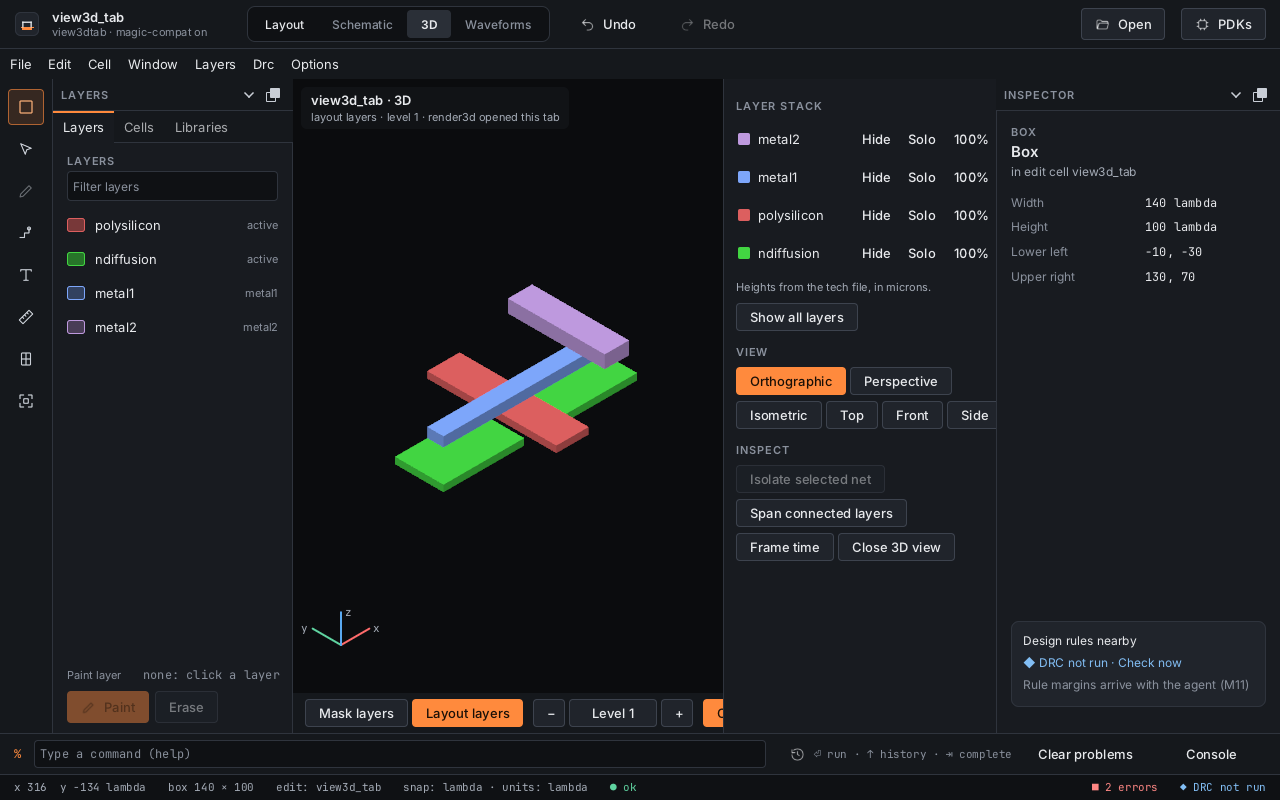
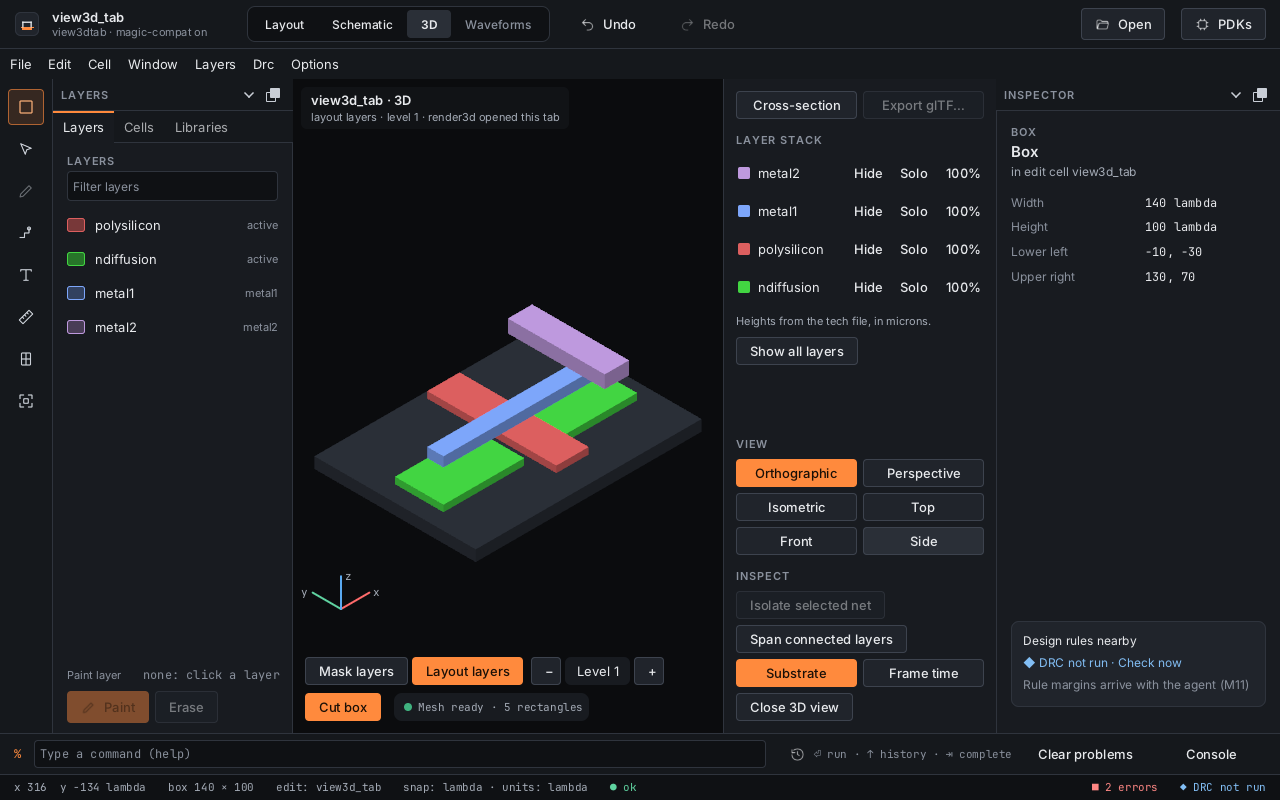
3D conformance: Linux X11 and Wayland captures of round 5
From PR #112 CI run 45555742379 (linux-x64-clang-latest): the presets
and the floating toolbar fit at 1280 x 800 under X11 and Wayland.

diff --git a/docs/design/m10-3d-ui-conformance.md b/docs/design/m10-3d-ui-conformance.md
@@ -30,7 +30,7 @@ Round 4 Linux captures (PR #102 CI run 45420881227, leg `linux-x64-clang-latest`
 
 Round 4 (SHELL, branch `m10-3d-round4-shell`, 2026-11-24; Q-MISC-84, Q-MISC-85): the user's screenshot of `sky130_fd_sc_hd__dfxtp_1` did not look like the board. Before captures (same build at the origin/main base, kept out of the repository) showed a light grey background, washed-out faces fading to white, an isometric `view` with the stack upside down and the cell far larger than the window, and Magic's top-down view on opening. After captures, macOS (Apple M3 Pro, MoltenVK, debug build, 1600 × 989 logical, `hefesto -T sky130A.tech <cell>.mag --run 'magic::render3d; .render.magic cif' --capture …`, with Magic's `mos` styles in a CAD_ROOT), with RENDER's round-4 renderer merged: [view3d-dfxtp1-macos.png](../images/ui/view3d-dfxtp1-macos.png) (magic-compat ON), [view3d-dfxtp1-compat-off-macos.png](../images/ui/view3d-dfxtp1-compat-off-macos.png) (`setting set magic-compat off` first: the same picture), [view3d-inverter-macos.png](../images/ui/view3d-inverter-macos.png) (`sky130_fd_sc_hd__inv_1`, standing in for the board's `inverter_demo`, which the repository does not have). Rows in "Round 4 board look" below. Linux captures of the new look come from the CI desktop legs (open).
 
-Round 5 (SHELL, branch `m10-3d-round5-shell`, 2026-11-25; tasks 9.6, 11.5): before captures (the origin/main build at cbe15a8c, kept out of the repository) reproduce the round-4 Linux gaps on macOS at 1280 × 800: the toolbar strip under the view is wider than the view (Cut box and the mesh status cut off), and the panel's View and Inspect sections are below a 349-row layer list. After captures, macOS (Apple M3 Pro, MoltenVK, debug build, same commands as round 4, plus 1280 × 800): [view3d-dfxtp1-macos.png](../images/ui/view3d-dfxtp1-macos.png) (1600 × 989), [view3d-dfxtp1-1280-macos.png](../images/ui/view3d-dfxtp1-1280-macos.png) (1280 × 800), [view3d-dfxtp1-compat-off-macos.png](../images/ui/view3d-dfxtp1-compat-off-macos.png) (magic-compat OFF: the same picture), [view3d-inverter-macos.png](../images/ui/view3d-inverter-macos.png), [view3d-tab-macos.png](../images/ui/view3d-tab-macos.png) (the window test's cell at 1280 × 800), and the Cross-section panel after a click on "Cross-section" (`--press`): [view3d-section-dfxtp1-macos.png](../images/ui/view3d-section-dfxtp1-macos.png), [view3d-section-tab-macos.png](../images/ui/view3d-section-tab-macos.png). These captures were retaken after SECTION's branch (`m10-3d-round5-section`: `view3d::section`, the clipping plane, the substrate slab, `ground_point`) was merged into the SHELL branch, so they show the slab and a real section. Rows in "Round 5" below. The Linux captures of the same window test come from the CI desktop legs of the round's PR (`view3d-captures-<leg>`).
+Round 5 (SHELL, branch `m10-3d-round5-shell`, 2026-11-25; tasks 9.6, 11.5): before captures (the origin/main build at cbe15a8c, kept out of the repository) reproduce the round-4 Linux gaps on macOS at 1280 × 800: the toolbar strip under the view is wider than the view (Cut box and the mesh status cut off), and the panel's View and Inspect sections are below a 349-row layer list. After captures, macOS (Apple M3 Pro, MoltenVK, debug build, same commands as round 4, plus 1280 × 800): [view3d-dfxtp1-macos.png](../images/ui/view3d-dfxtp1-macos.png) (1600 × 989), [view3d-dfxtp1-1280-macos.png](../images/ui/view3d-dfxtp1-1280-macos.png) (1280 × 800), [view3d-dfxtp1-compat-off-macos.png](../images/ui/view3d-dfxtp1-compat-off-macos.png) (magic-compat OFF: the same picture), [view3d-inverter-macos.png](../images/ui/view3d-inverter-macos.png), [view3d-tab-macos.png](../images/ui/view3d-tab-macos.png) (the window test's cell at 1280 × 800), and the Cross-section panel after a click on "Cross-section" (`--press`): [view3d-section-dfxtp1-macos.png](../images/ui/view3d-section-dfxtp1-macos.png), [view3d-section-tab-macos.png](../images/ui/view3d-section-tab-macos.png). These captures were retaken after SECTION's branch (`m10-3d-round5-section`: `view3d::section`, the clipping plane, the substrate slab, `ground_point`) was merged into the SHELL branch, so they show the slab and a real section. Rows in "Round 5" below. Linux captures (PR #112 CI run 45555742379, leg `linux-x64-clang-latest`, artifact `view3d-captures-linux-x64-clang-latest`; the round-4 images are replaced): the window test "3D tab opened by render3d" at 1280 × 800 under X11 [view3d-tab-linux-x11.png](../images/ui/view3d-tab-linux-x11.png) and Wayland [view3d-tab-linux-wayland.png](../images/ui/view3d-tab-linux-wayland.png): the four presets in two columns inside the panel ("Side" no longer clipped), the floating toolbar in two rows with Cut box and the mesh status fully shown, the substrate slab under the stack.
 
 ## Round 5: floating toolbar, fit at 1280 × 800, P2 screen part (tasks 9.6, 11.5)
 
@@ -38,8 +38,8 @@ Compared with the board `docs/design/mockups/View3D.dc.html` and the round-5 aft
 
 | Element | Seen in the after captures | Status / gap |
 |---|---|---|
-| Floating view toolbar | Mask / Layout layers, the Level stepper (− · "Level 1" · +) and Cut box float over the bottom-left of the 3D view, 12 px from its edges (`raven_ui` `Widget::place_bottom_left`), with the mesh status chip; the strip under the view is gone. The groups flow into rows when the view is narrow (`flow_rows`): one row at 1600 × 989, two rows at 1280 × 800 (mode and level, then Cut box and status). The axis gizmo and the pick caption sit above the toolbar. | done (macOS); the status chip follows the controls instead of sitting at the right end as on the board |
-| Every control fits at 1280 × 800 | The side panel's paired buttons (Cross-section / Export glTF…, Orthographic / Perspective, the presets, Substrate / Frame time) are a two-column grid of equal cells (the board's camera grid), so "Side" ends inside the panel; nothing in the toolbar is cut off. Test "the side panel's button grid and the floating toolbar fit a 1280-px-wide window". | done (macOS 1280 × 800); Linux X11/Wayland from the PR's CI captures |
+| Floating view toolbar | Mask / Layout layers, the Level stepper (− · "Level 1" · +) and Cut box float over the bottom-left of the 3D view, 12 px from its edges (`raven_ui` `Widget::place_bottom_left`), with the mesh status chip; the strip under the view is gone. The groups flow into rows when the view is narrow (`flow_rows`): one row at 1600 × 989, two rows at 1280 × 800 (mode and level, then Cut box and status). The axis gizmo and the pick caption sit above the toolbar. | done (macOS; Linux X11 and Wayland); the status chip follows the controls instead of sitting at the right end as on the board |
+| Every control fits at 1280 × 800 | The side panel's paired buttons (Cross-section / Export glTF…, Orthographic / Perspective, the presets, Substrate / Frame time) are a two-column grid of equal cells (the board's camera grid), so "Side" ends inside the panel; nothing in the toolbar is cut off. Test "the side panel's button grid and the floating toolbar fit a 1280-px-wide window". | done (macOS 1280 × 800; Linux X11 and Wayland 1280 × 800, CI run 45555742379) |
 | Presets and projection | Pinned under the scrolled layer stack ("View"), always visible, as the board pins them to the bottom of its aside; the layer list scrolls above them. | done (macOS) |
 | Cross-section (task 11.5) | The "Cross-section" toggle cuts A–A′ along the layout box's long axis (axis-aligned; else the cut box, else the cell's bounding box), clips the 3D view at the vertical plane through the line (`DrawParams::section_plane`, keeping the side away from the isometric viewer) and shows the "Cross-section A–A′" panel under Inspect: each layer's intervals from h to h + t in µm (`view3d::section`, hidden layers left out) in its display style's colour at the row's transparency, the line's length, the layers with no height named; the section's diagnostics go to the console once per line (the window test's tech, which has no µm scale, reports `VIEW3D-SECTION-002`). With Cross-section on, two clicks in the 3D view set A and A′ on the z = 0 plane (`view3d::ground_point`; front and side views see the plane edge on, so a click there picks). | done (macOS: dfxtp_1 cut along its long axis, panel with 6 layers; the window test's cell with the warning); the board draws the panel in the right aside, here it is under Inspect in the side panel |
 | Export glTF… (task 11.5) | Asks for a file with the platform save dialog (`platform::FilePicker`: glTF, glTF binary, STL; "<cell>.gltf" proposed) and runs `<path> export3d <file>` (or plain `export3d <file>` when the command is not in the 3D window's table). | partial: disabled in the captures because `export3d` (EXPORT, D14) is not registered on main; it enables itself when the command exists |
